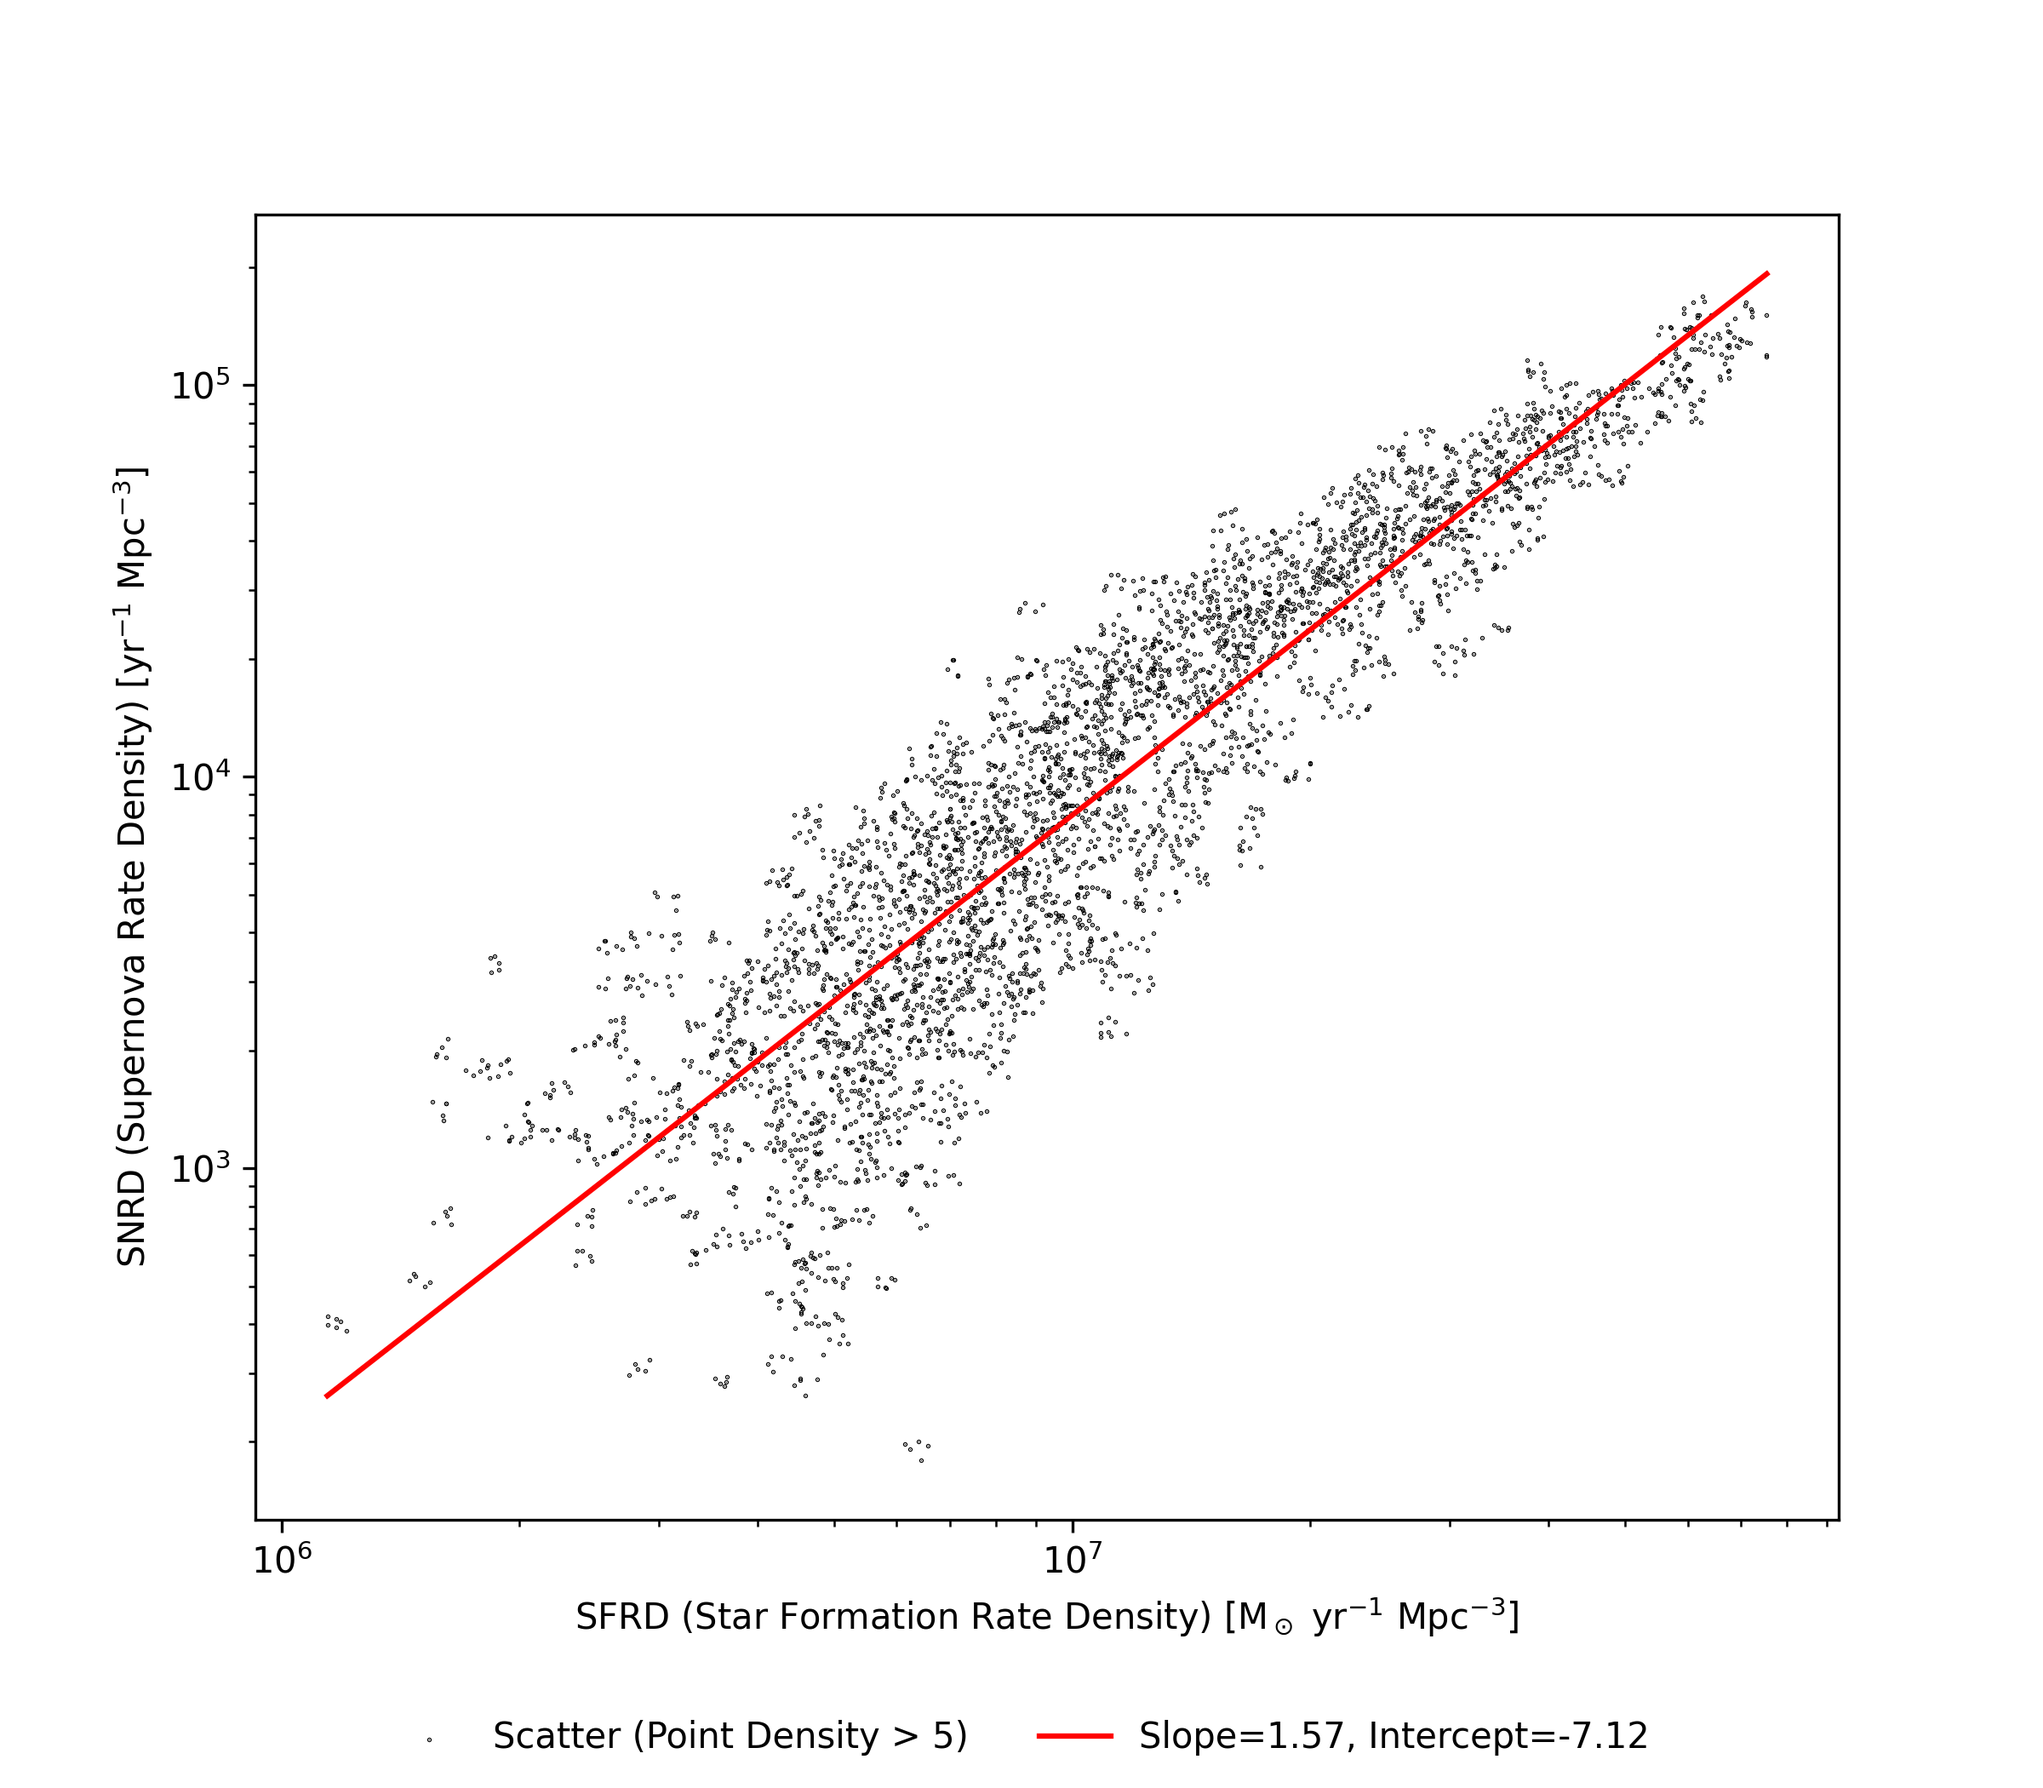
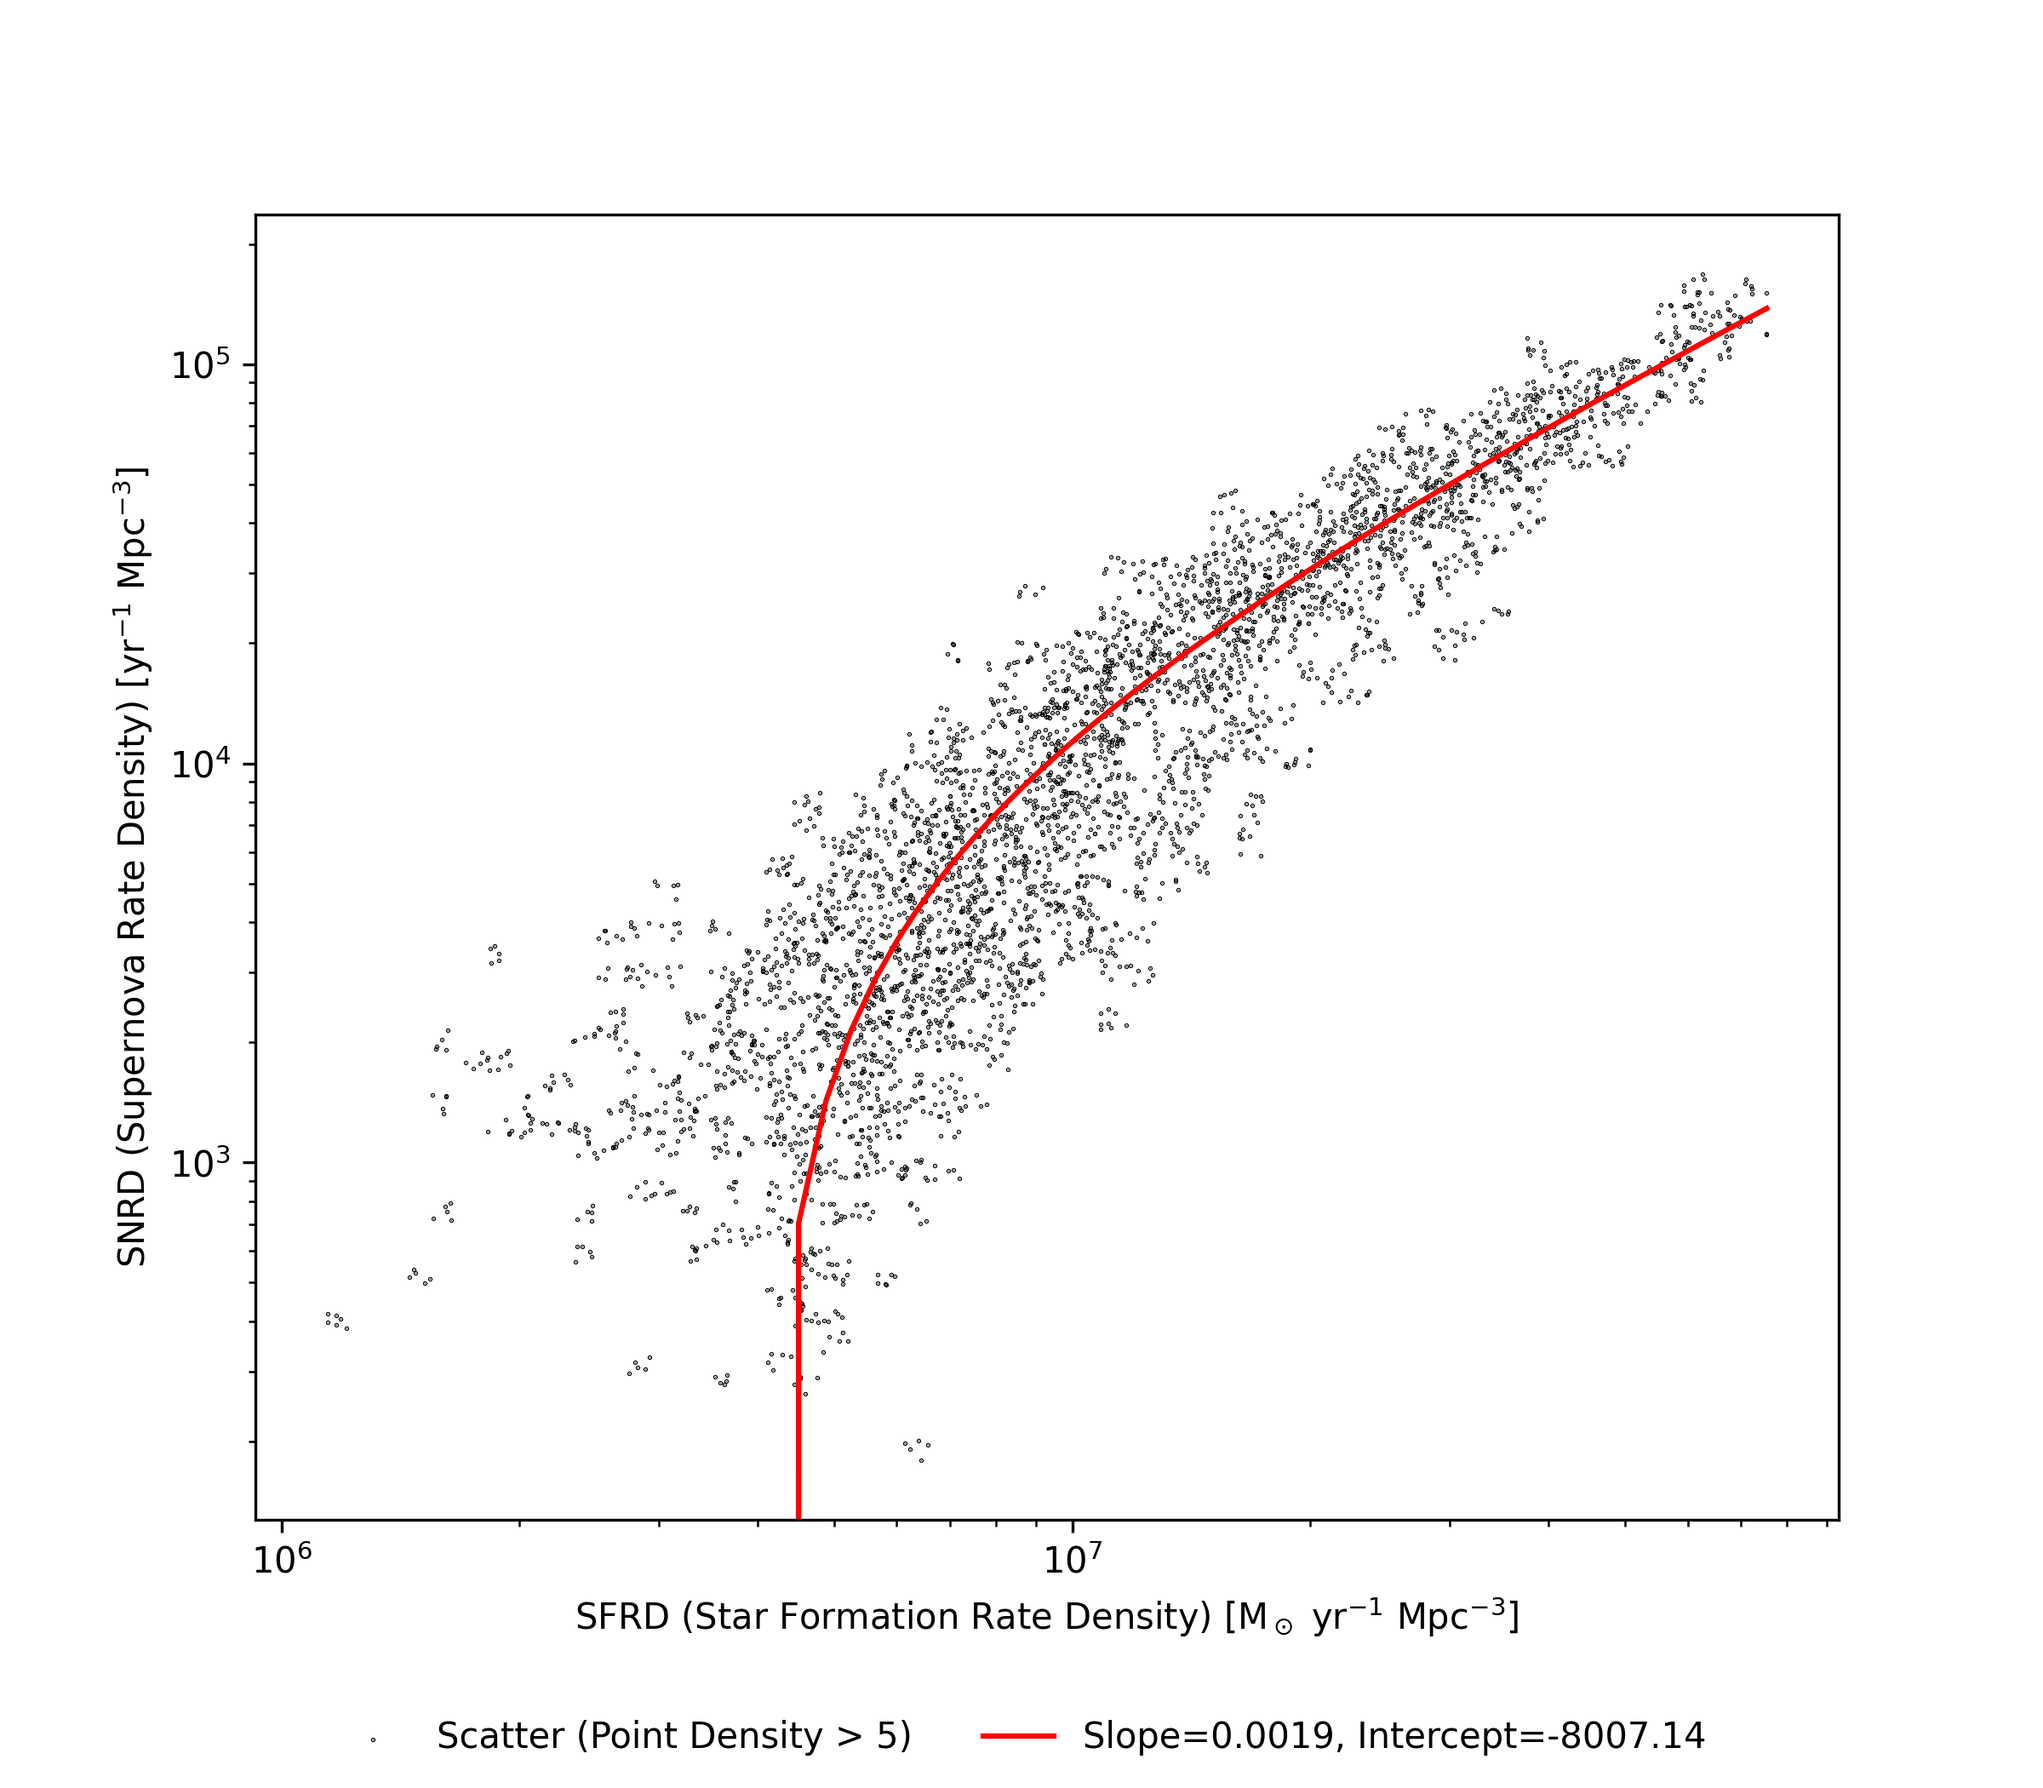
updated halo best fit

diff --git a/tng.py b/tng.py
@@ -230,7 +230,7 @@ def curve_md14(redshifts, array, guess=1):
     x_linespace = np.linspace(redshifts.min(), redshifts.max(), 300)
     md14_fit = sfrd_func(x_linespace, *params)
 
-    return md14_fit
+    return md14_fit, [params,cov]
 
 # generate figure and axes
 def plt_helper(size1, size2, xlabel, ylabel, logx=True, logy=True, legendspace=None):
@@ -406,7 +406,11 @@ def halo_level(snaps):
     slope, intercept = coeffs
     x_line = np.logspace(np.log10(x_filtered.min()), np.log10(x_filtered.max()), 200)
     y_line = 10**(slope * np.log10(x_line) + intercept)
-    ax_dense.plot(x_line, y_line, color='red', linewidth=1.5, label=f'Slope={slope:.2f}, Intercept={intercept:.2f}')
+
+    slope, intercept = np.polyfit(x_filtered, y_filtered, 1)
+    x_line = np.linspace(x_filtered.min(), x_filtered.max(), 200)
+    y_line = slope * x_line + intercept
+    ax_dense.plot(x_line, y_line, color='red', linewidth=1.5, label=f'Slope={slope:.4f}, Intercept={intercept:.2f}')
 
     # average plots 
     x_line, y_line, av_slope, av_intercept = line_fit(all_av_sfrd, all_av_snrd)
@@ -513,12 +517,12 @@ def cosmic_level(snaps, kcc_type):
     nv19 = 0.01 * pow((1 + redshift_linespace), 2.77)/(1 + pow((1 + redshift_linespace)/2.9, 4.7))  
 
     # snrd curve fits
-    md14_snrd_scaled = curve_md14(rev_redshifts, rev_snrd_1000_scaled)
-    md14_snrd_alt_scaled = curve_md14(rev_redshifts, rev_snrd_alt_scaled)
-    md14_snrd_mass_scaled = curve_md14(rev_redshifts, rev_snrd_mass_scaled)
+    md14_snrd_scaled, _ = curve_md14(rev_redshifts, rev_snrd_1000_scaled)
+    md14_snrd_alt_scaled, _ = curve_md14(rev_redshifts, rev_snrd_alt_scaled)
+    md14_snrd_mass_scaled, _ = curve_md14(rev_redshifts, rev_snrd_mass_scaled)
 
     # sfrd 
-    md14_sfrd_all = curve_md14(rev_redshifts, rev_sfrd_all)
+    md14_sfrd_all, _ = curve_md14(rev_redshifts, rev_sfrd_all)
 
     # quoted core collapse efficiency scaling for salpeter
     # we will want a chabrier (need to caluclate it)
@@ -637,7 +641,8 @@ for i, sn_type in enumerate(all_sn_types):
     else:
         total_snr = total_snr + snrd
 
-    print('Total SNR:', total_snr[7])
+    print(' SNR:', ', '.join(f'{s * 10**4:.4f}' for s in snrd))
+    #print(' Total SNR:', total_snr[7])
 
     plot_names = ['1', '2', '3', '4', 'halo_rates', 'halo_rate_density', 'halo_hist', 'halo_hist_reduced', 'halo_average', 'halo_snr_solar', 'cosmic_snr', 'cosmic_sfr']
     for idx, fig_num in enumerate(plt.get_fignums()):
@@ -678,22 +683,27 @@ print('scaling avg;', kcc_avg)
 print('scaling weighted;', kcc_1)
 print('scaling upper;', kcc_1_upper)
 print('scaling lower;', kcc_1_lower)
+print('scaling error;', kcc_1_upper - kcc_1_lower)
 
 # NOTE: upper and lower kcc limits are extrenely close to each other so are not used 
 
 """"""""""""""""""""""""""""""""""""""""""""""""""""""""""""""""""""""""""""""
 #region STAR Formation graph
 # curve fit - guess using nv19 (closest to our values)
-curve_sfr = curve_md14(rev_redshifts, total_sfr, 3) # DONT THINK THIS IS RIGHT 
-curve_all = curve_md14(rev_redshifts, sfrh_halos, 3)
-curve_100 = curve_md14(rev_redshifts, sfrh_1000, 3)
+curve_sfr, _ = curve_md14(rev_redshifts, total_sfr, 3) # DONT THINK THIS IS RIGHT 
+curve_all, _ = curve_md14(rev_redshifts, sfrh_halos, 3)
+curve_100, _ = curve_md14(rev_redshifts, sfrh_1000, 3)
 
-curve_snr = curve_md14(rev_redshifts, total_snr, 3)
-curve_sfr = curve_md14(rev_redshifts, total_snr/kcc_1, 3) # Apply kcc to snrd after averaging (accounts for fractions)
-#curve_sfr = curve_md14(rev_redshifts, new_sfr, 3)
+#print('total snr', *(total_snr*10**4))
+print('total snr:', ', '.join(f'{s * 10**4:.4f}' for s in total_snr))
+print('redshifts:', ', '.join(f'{r:.4f}' for r in rev_redshifts))
+curve_snr, _ = curve_md14(rev_redshifts, total_snr, 3)
+curve_sfr, params = curve_md14(rev_redshifts, total_snr/kcc_1, 3) # Apply kcc to snrd after averaging (accounts for fractions)
+print('Params:',*params[0])
+print('errors:',np.sqrt(np.diag(params[1])))
 
 # plot lines
-#ax_total_sfr.fill_between(redshift_linespace, curve_snr/kcc_IIP, curve_snr/kcc_Ibc, color='orange', alpha=0.1, label=f'[{kcc_Ibc:.4f} < kcc <  {kcc_IIP:.4f}]')
+ax_total_sfr.fill_between(redshift_linespace, curve_snr/kcc_IIP, curve_snr/kcc_Ibc, color='orange', alpha=0.1, label=f'[{kcc_Ibc:.4f} < kcc <  {kcc_IIP:.4f}]')
 ax_total_sfr.plot(redshift_linespace, sfrh_md14, label=f'Madau & Dickinson (2014)', color='navy', ls='--')
 ax_total_sfr.plot(redshift_linespace, sfrh_mf17, label=f'Madau & Fragos (2017)', color='purple', ls='--')
 ax_total_sfr.plot(redshift_linespace, sfrh_nv19, label=f'Neijssel et. al (2019)', color='cyan', ls='--')
@@ -786,10 +796,10 @@ ax_total_snr.set_xlim(-0.2, 6)
 ax_total_snr.yaxis.set_major_formatter(ticker.FuncFormatter(lambda val, pos: f'{val*1e4:g}'))
 plt_labels(fig_total_snr, ax_total_snr, 3, 0.17)
 
-fig_types1.savefig("Data/Images/TNG/final/cosmic_type.png", dpi=300)
-fig_types2.savefig("Data/Images/TNG/final/cosmic_type(sfr).png", dpi=300)
-fig_total_sfr.savefig(f"Data/Images/TNG/final/cosmic_sfh.png", dpi=300)
-fig_total_snr.savefig(f"Data/Images/TNG/final/cosmic_snh.png", dpi=300)
+fig_types1.savefig("Data/Images/TNG/final/cosmic/cosmic_type.png", dpi=300)
+fig_types2.savefig("Data/Images/TNG/final/cosmic/cosmic_type(sfr).png", dpi=300)
+fig_total_sfr.savefig(f"Data/Images/TNG/final/cosmic/cosmic_sfh.png", dpi=300)
+fig_total_snr.savefig(f"Data/Images/TNG/final/cosmic/cosmic_snh.png", dpi=300)
 
 plt.close(fig_total_sfr)
 plt.close(fig_total_snr)
@@ -846,5 +856,5 @@ for idx, item in enumerate(test_dict.items()):
     ax_ratio.scatter(rev_redshifts, y, label=name, color=sn_colours[idx], marker='D', edgecolors='black', zorder=40)
 
 plt_labels(fig_ratio, ax_ratio, 4, 0.07)
-fig_ratio.savefig("Data/Images/TNG/final/cosmic_ratio.png", dpi=300)
+fig_ratio.savefig("Data/Images/TNG/final/cosmic/cosmic_ratio.png", dpi=300)
 print('total', sum(ratios))

diff --git a/Misc/pie.py b/Misc/pie.py
@@ -9,6 +9,7 @@ sizes2 = [47.38, 25.06, 18.60, 9.95]
 errors2 = [0.86, 1.69, 1.66, 0.61]
 
 colors = ['#FF5733', '#33FF57', "#4C6CFD", "#FFD012"]
+fontsize = 14
 # Create figure with 1 row, 2 columns
 fig, axes = plt.subplots(1, 2, figsize=(12, 6))
 
@@ -16,7 +17,7 @@ fig, axes = plt.subplots(1, 2, figsize=(12, 6))
 def make_autopct(labels, errors):
     def inner(pct):
         idx = make_autopct.idx
-        result = f"{labels[idx]}\n{pct:.1f}±{errors[idx]}%"
+        result = f"{labels[idx]}\n{pct:.2f}±{errors[idx]}%"
         make_autopct.idx += 1
         return result
     make_autopct.idx = 0
@@ -32,7 +33,7 @@ axes[0].pie(
     pctdistance=0.6,              # distance of label from center
     startangle=90,
     wedgeprops={'edgecolor':'black', 'linewidth':2},
-    textprops={'color':'white', 'weight':'bold'}  # <-- white text
+    textprops={'color':'white', 'weight':'bold', 'fontsize': fontsize}  # <-- white text
 )
 axes[0].set_title("A)")
 axes[0].axis('equal')
@@ -47,7 +48,7 @@ axes[1].pie(
     pctdistance=0.6,              # distance of label from center
     startangle=90,
     wedgeprops={'edgecolor':'black', 'linewidth':2},
-    textprops={'color':'white', 'weight':'bold'}  # <-- white text
+    textprops={'color':'white', 'weight':'bold', 'fontsize': fontsize}  # <-- white text
 )
 axes[1].set_title("B)")
 axes[1].axis('equal')
